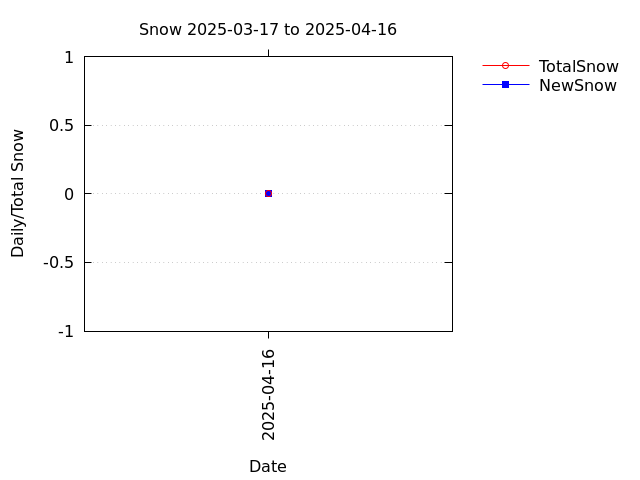
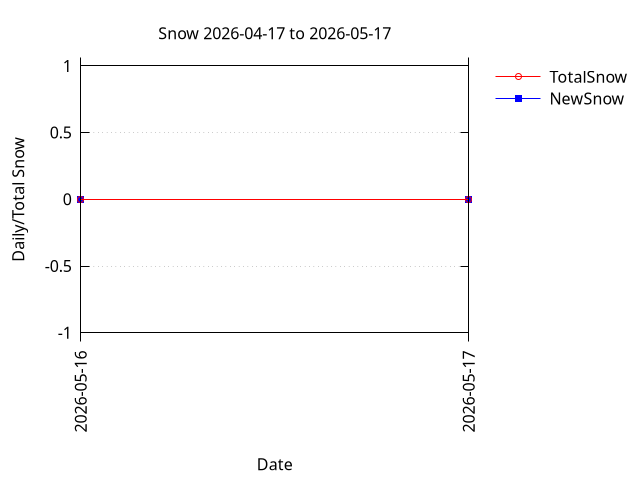
Add hint about the systemd-sleep man page to the T450s ethernet post.

diff --git a/content/posts/2020-05-12-t450s-ethernet.md b/content/posts/2020-05-12-t450s-ethernet.md
@@ -47,7 +47,7 @@ On resume, undo those steps in reverse order:
 The simple fix is to install a single executable script in
 the `/usr/lib/systemd/system-sleep` directory that handles both the suspend and resume
 tasks.  This fix also works on hibernation, unlike the Less Simple Fix
-below.
+below.  See the `systemd-sleep` man page for complete details.
 
 As root, create the file `/usr/lib/systemd/system-sleep/network` with the following
 contents:
